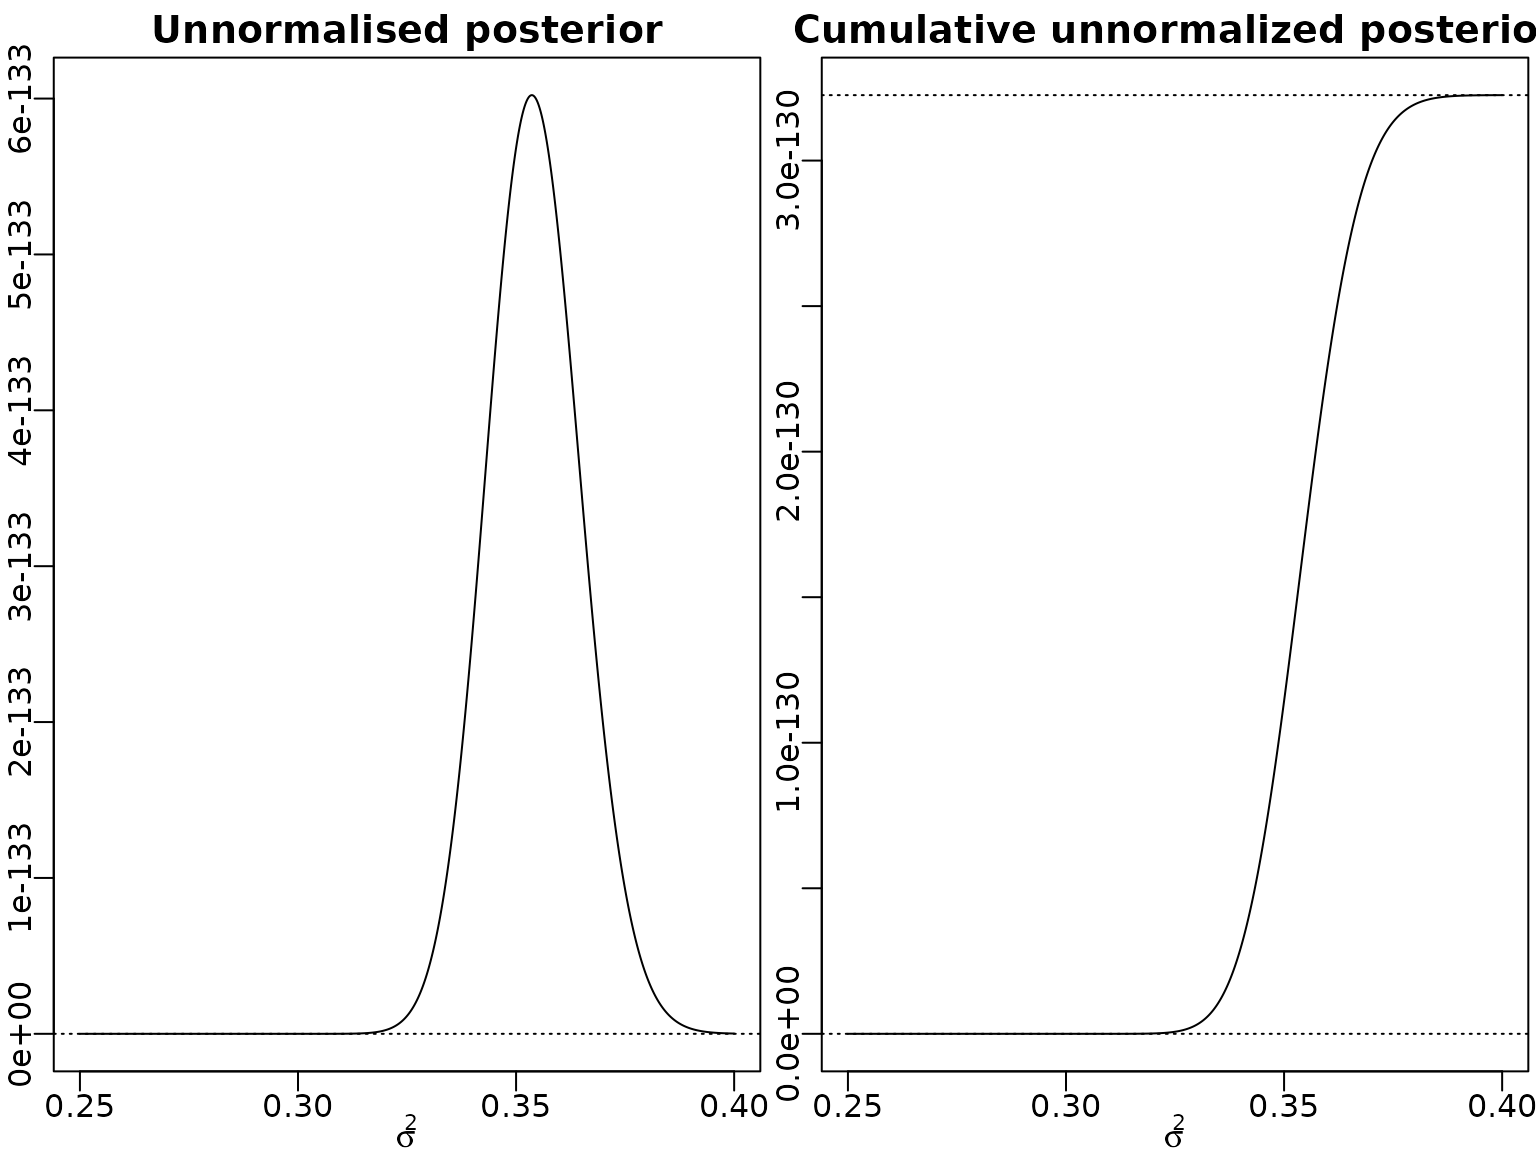
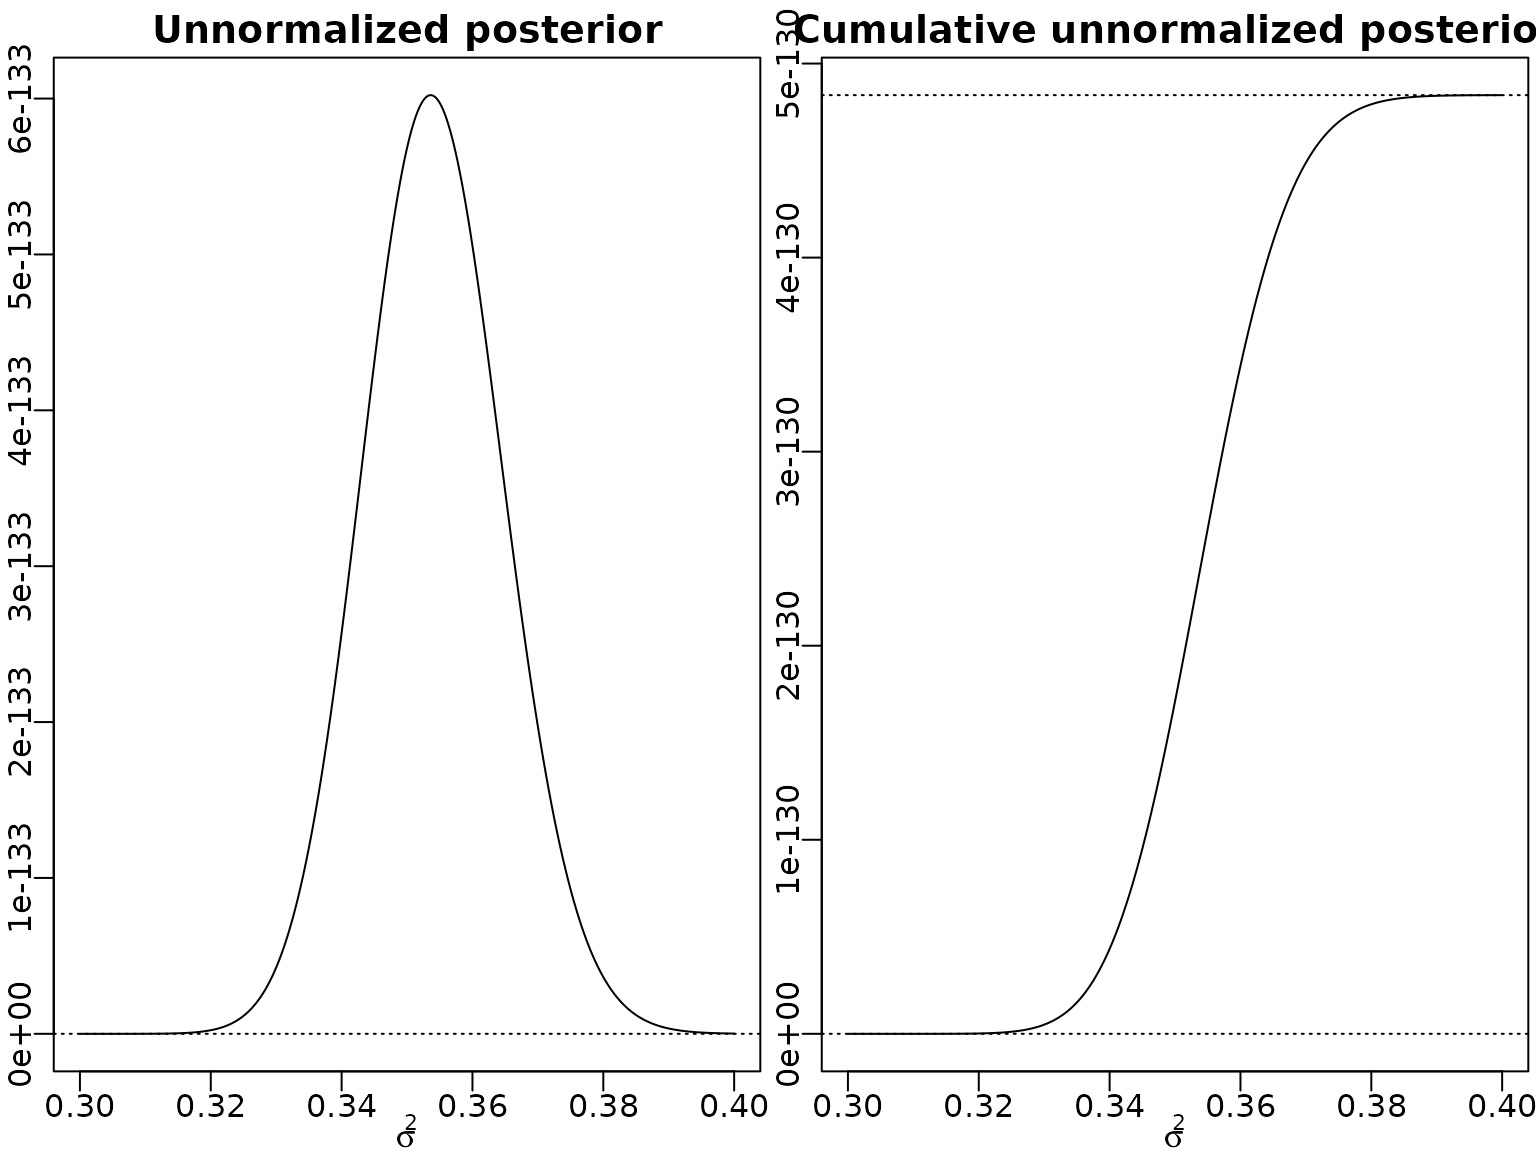
Deploying to gh-pages from @ gregorkastner/BayesianLearningCode@11ec473f5be92864b3a43b4f8c771ebbca473ad1 🚀

diff --git a/articles/Chapter04.html b/articles/Chapter04.html
@@ -283,11 +283,11 @@ fasted of all methods in R, but will do just fine for our use-case).</p>
 <p>Now we can plot.</p>
 <div class="sourceCode" id="cb8"><pre class="downlit sourceCode r">
 <code class="sourceCode R"><span><span class="va">nu</span> <span class="op">&lt;-</span> <span class="fl">7</span></span>
-<span><span class="va">sigma2</span> <span class="op">&lt;-</span> <span class="fu"><a href="https://rdrr.io/r/base/seq.html" class="external-link">seq</a></span><span class="op">(</span><span class="fl">0.25</span>, <span class="fl">0.4</span>, length.out <span class="op">=</span> <span class="fl">3000</span><span class="op">)</span></span>
+<span><span class="va">sigma2</span> <span class="op">&lt;-</span> <span class="fu"><a href="https://rdrr.io/r/base/seq.html" class="external-link">seq</a></span><span class="op">(</span><span class="fl">0.3</span>, <span class="fl">0.4</span>, length.out <span class="op">=</span> <span class="fl">3000</span><span class="op">)</span></span>
 <span><span class="va">pdf_u</span> <span class="op">&lt;-</span> <span class="fu">post_unnormalized</span><span class="op">(</span><span class="va">sigma2</span>, y <span class="op">=</span> <span class="va">y</span>, nu <span class="op">=</span> <span class="va">nu</span><span class="op">)</span></span>
 <span></span>
 <span><span class="fu"><a href="https://rdrr.io/r/graphics/plot.default.html" class="external-link">plot</a></span><span class="op">(</span><span class="va">sigma2</span>, <span class="va">pdf_u</span>, type <span class="op">=</span> <span class="st">"l"</span>, xlab <span class="op">=</span> <span class="fu"><a href="https://rdrr.io/r/base/expression.html" class="external-link">expression</a></span><span class="op">(</span><span class="va">sigma</span><span class="op">^</span><span class="fl">2</span><span class="op">)</span>,</span>
-<span>     ylab <span class="op">=</span> <span class="st">""</span>, main <span class="op">=</span> <span class="st">"Unnormalised posterior"</span><span class="op">)</span></span>
+<span>     ylab <span class="op">=</span> <span class="st">""</span>, main <span class="op">=</span> <span class="st">"Unnormalized posterior"</span><span class="op">)</span></span>
 <span><span class="fu"><a href="https://rdrr.io/r/graphics/abline.html" class="external-link">abline</a></span><span class="op">(</span>h <span class="op">=</span> <span class="fl">0</span>, lty <span class="op">=</span> <span class="fl">3</span><span class="op">)</span></span>
 <span></span>
 <span><span class="va">cdf_u</span> <span class="op">&lt;-</span> <span class="fu"><a href="https://rdrr.io/r/base/cumsum.html" class="external-link">cumsum</a></span><span class="op">(</span><span class="va">pdf_u</span><span class="op">)</span></span>
@@ -344,13 +344,13 @@ draws.</p>
 <span>                <span class="va">minmax</span><span class="op">[</span><span class="fl">2</span><span class="op">]</span> <span class="op">+</span> <span class="fl">.01</span> <span class="op">*</span> <span class="fu"><a href="https://rdrr.io/r/base/diff.html" class="external-link">diff</a></span><span class="op">(</span><span class="va">minmax</span><span class="op">)</span>,</span>
 <span>                length.out <span class="op">=</span> <span class="fl">100</span><span class="op">)</span></span>
 <span><span class="fu"><a href="https://rdrr.io/r/graphics/hist.html" class="external-link">hist</a></span><span class="op">(</span><span class="va">qnormdraws</span>, breaks <span class="op">=</span> <span class="va">mybreaks</span>, ylab <span class="op">=</span> <span class="st">""</span>, xlab <span class="op">=</span> <span class="fu"><a href="https://rdrr.io/r/base/bquote.html" class="external-link">bquote</a></span><span class="op">(</span><span class="va">Q</span><span class="op">[</span><span class="fu">.</span><span class="op">(</span><span class="va">alpha</span><span class="op">)</span><span class="op">]</span><span class="op">)</span>,</span>
-<span>     main <span class="op">=</span> <span class="fu"><a href="https://rdrr.io/r/base/bquote.html" class="external-link">bquote</a></span><span class="op">(</span><span class="st">"Histogram of"</span> <span class="op">~</span> <span class="fu">.</span><span class="op">(</span><span class="fl">100</span> <span class="op">*</span> <span class="va">alpha</span><span class="op">)</span> <span class="op">*</span> <span class="st">"%-VaR draws under the"</span> <span class="op">~</span></span>
-<span>                     <span class="fu">N</span><span class="op">(</span><span class="fl">0</span>, <span class="va">sigma</span><span class="op">^</span><span class="fl">2</span><span class="op">)</span> <span class="op">~</span> <span class="st">"likelihood assumption"</span><span class="op">)</span><span class="op">)</span></span>
-<span><span class="fu"><a href="https://rdrr.io/r/graphics/points.html" class="external-link">points</a></span><span class="op">(</span><span class="fu"><a href="https://rdrr.io/r/stats/quantile.html" class="external-link">quantile</a></span><span class="op">(</span><span class="va">y</span>, <span class="va">alpha</span><span class="op">)</span>, <span class="fl">0</span>, col <span class="op">=</span> <span class="fl">2</span><span class="op">)</span></span>
+<span>     main <span class="op">=</span> <span class="fu"><a href="https://rdrr.io/r/base/bquote.html" class="external-link">bquote</a></span><span class="op">(</span><span class="st">"Histogram of posterior"</span> <span class="op">~</span> <span class="fu">.</span><span class="op">(</span><span class="fl">100</span> <span class="op">*</span> <span class="va">alpha</span><span class="op">)</span> <span class="op">*</span> <span class="st">"%-VaR draws under the"</span> <span class="op">~</span></span>
+<span>                   <span class="fu">N</span><span class="op">(</span><span class="fl">0</span>, <span class="va">sigma</span><span class="op">^</span><span class="fl">2</span><span class="op">)</span> <span class="op">~</span> <span class="st">"likelihood assumption"</span><span class="op">)</span>, prob <span class="op">=</span> <span class="cn">TRUE</span><span class="op">)</span></span>
+<span><span class="fu"><a href="https://rdrr.io/r/graphics/points.html" class="external-link">points</a></span><span class="op">(</span><span class="fu"><a href="https://rdrr.io/r/stats/quantile.html" class="external-link">quantile</a></span><span class="op">(</span><span class="va">y</span>, <span class="va">alpha</span><span class="op">)</span>, <span class="fl">0</span>, col <span class="op">=</span> <span class="fl">2</span>, lwd <span class="op">=</span> <span class="fl">2</span><span class="op">)</span></span>
 <span><span class="fu"><a href="https://rdrr.io/r/graphics/hist.html" class="external-link">hist</a></span><span class="op">(</span><span class="va">qtdraws</span>, breaks <span class="op">=</span> <span class="va">mybreaks</span>, ylab <span class="op">=</span> <span class="st">""</span>, xlab <span class="op">=</span> <span class="fu"><a href="https://rdrr.io/r/base/bquote.html" class="external-link">bquote</a></span><span class="op">(</span><span class="va">Q</span><span class="op">[</span><span class="fu">.</span><span class="op">(</span><span class="va">alpha</span><span class="op">)</span><span class="op">]</span><span class="op">)</span>,</span>
-<span>     main <span class="op">=</span> <span class="fu"><a href="https://rdrr.io/r/base/bquote.html" class="external-link">bquote</a></span><span class="op">(</span><span class="st">"Histogram of"</span> <span class="op">~</span> <span class="fu">.</span><span class="op">(</span><span class="fl">100</span> <span class="op">*</span> <span class="va">alpha</span><span class="op">)</span> <span class="op">*</span> <span class="st">"%-VaR draws under the"</span> <span class="op">~</span></span>
-<span>                     <span class="va">t</span><span class="op">[</span><span class="fu">.</span><span class="op">(</span><span class="va">nu</span><span class="op">)</span><span class="op">]</span><span class="op">(</span><span class="fl">0</span>, <span class="va">sigma</span><span class="op">^</span><span class="fl">2</span><span class="op">)</span> <span class="op">~</span> <span class="st">"likelihood assumption"</span><span class="op">)</span><span class="op">)</span></span>
-<span><span class="fu"><a href="https://rdrr.io/r/graphics/points.html" class="external-link">points</a></span><span class="op">(</span><span class="fu"><a href="https://rdrr.io/r/stats/quantile.html" class="external-link">quantile</a></span><span class="op">(</span><span class="va">y</span>, <span class="va">alpha</span><span class="op">)</span>, <span class="fl">0</span>, col <span class="op">=</span> <span class="fl">2</span><span class="op">)</span></span></code></pre></div>
+<span>     main <span class="op">=</span> <span class="fu"><a href="https://rdrr.io/r/base/bquote.html" class="external-link">bquote</a></span><span class="op">(</span><span class="st">"Histogram of posterior"</span> <span class="op">~</span> <span class="fu">.</span><span class="op">(</span><span class="fl">100</span> <span class="op">*</span> <span class="va">alpha</span><span class="op">)</span> <span class="op">*</span> <span class="st">"%-VaR draws under the"</span> <span class="op">~</span></span>
+<span>                   <span class="va">t</span><span class="op">[</span><span class="fu">.</span><span class="op">(</span><span class="va">nu</span><span class="op">)</span><span class="op">]</span><span class="op">(</span><span class="fl">0</span>, <span class="va">sigma</span><span class="op">^</span><span class="fl">2</span><span class="op">)</span> <span class="op">~</span> <span class="st">"likelihood assumption"</span><span class="op">)</span>, prob <span class="op">=</span> <span class="cn">TRUE</span><span class="op">)</span></span>
+<span><span class="fu"><a href="https://rdrr.io/r/graphics/points.html" class="external-link">points</a></span><span class="op">(</span><span class="fu"><a href="https://rdrr.io/r/stats/quantile.html" class="external-link">quantile</a></span><span class="op">(</span><span class="va">y</span>, <span class="va">alpha</span><span class="op">)</span>, <span class="fl">0</span>, col <span class="op">=</span> <span class="fl">2</span>, lwd <span class="op">=</span> <span class="fl">2</span><span class="op">)</span></span></code></pre></div>
 <p><img src="Chapter04_files/figure-html/unnamed-chunk-14-1.png" width="768"></p>
 </div>
 </div>
